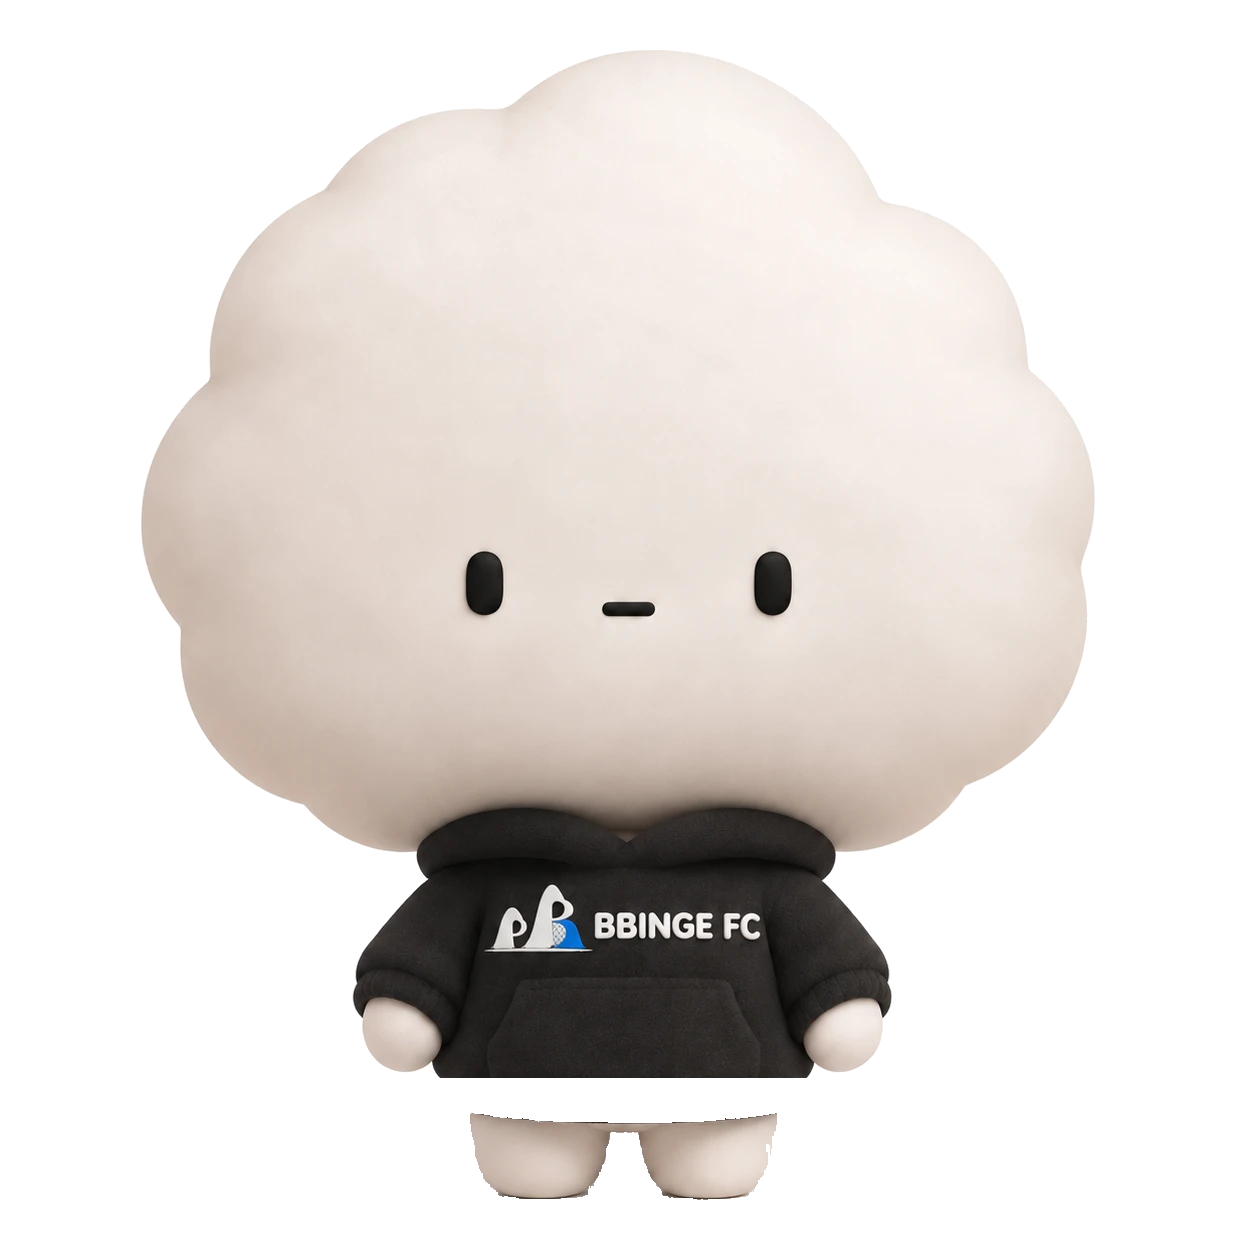
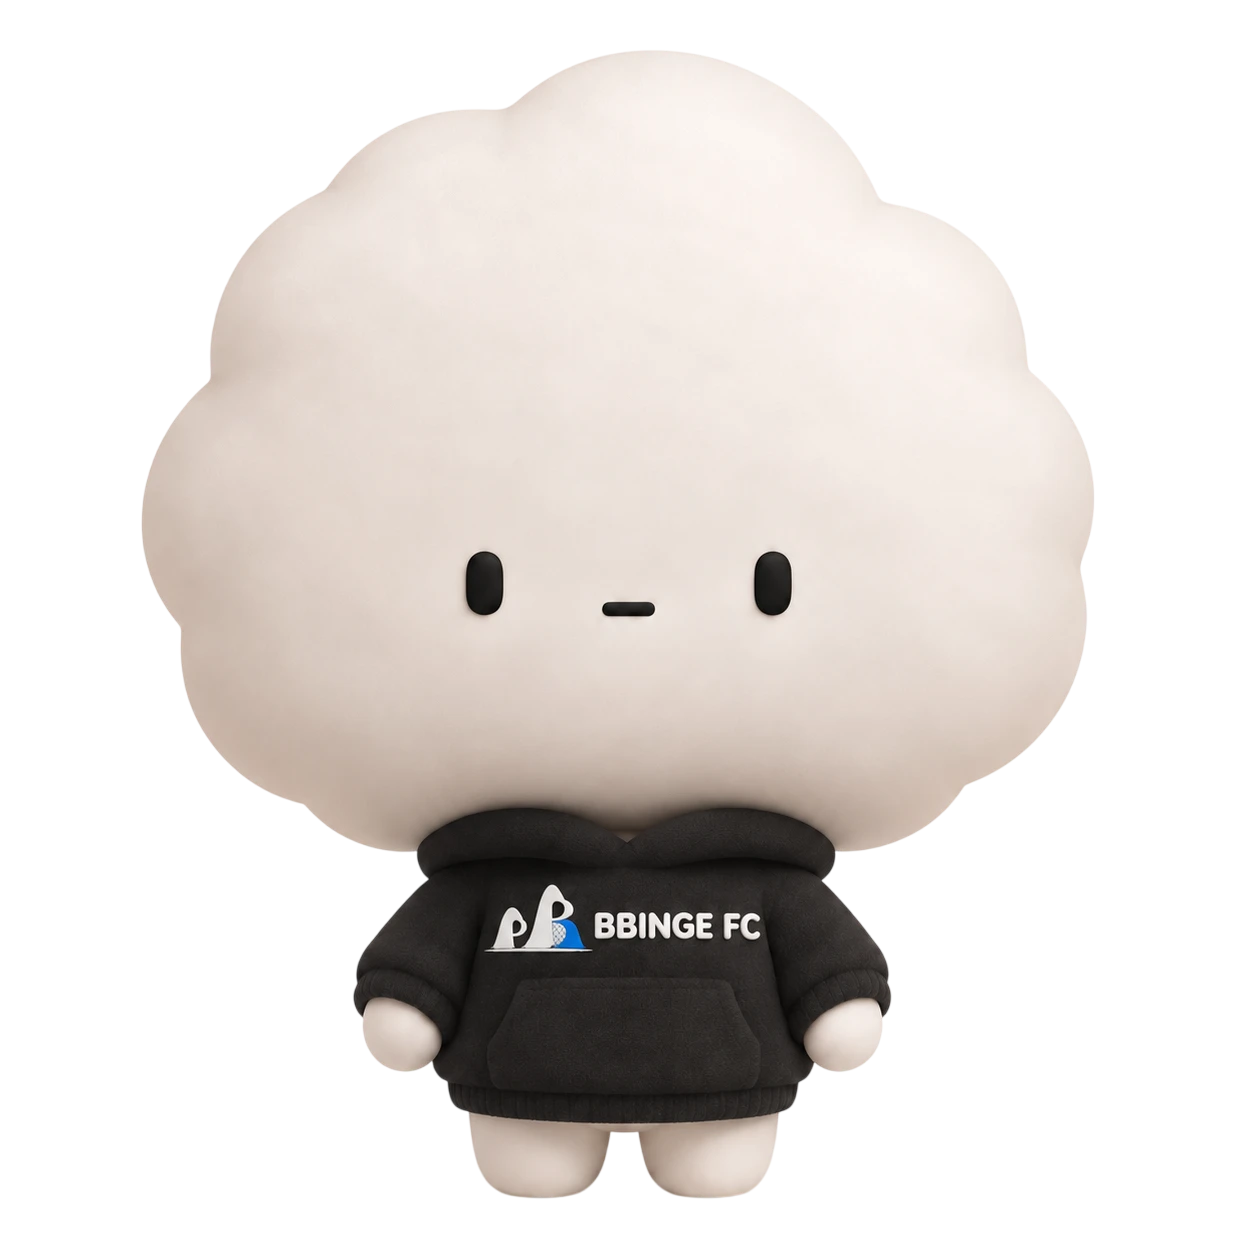
수정(캐릭터): 정면 두 컷을 운영자가 딴 누끼로 교체한다
- bbingji-front, bbingmaeng-front 를 운영자 제공 파일로 바꾼다
- 로비 아바타를 새 파일에서 다시 만든다
- 잘라내기 스크립트 기본 목록에서 두 파일을 빼 덮어쓰지 않게 한다

Changed region(s): [[0.3421, 0.8397, 0.6531, 0.9019]]

diff --git a/STATUS.md b/STATUS.md
@@ -4,9 +4,9 @@
 새 세션은 **이 파일을 제일 먼저 읽는다.** 여기 있는 숫자는 문서에 적어 둔 기억이 아니라 저장소를 직접 센 값이다.
 고정 규칙은 `AGENTS.md` §1의 핵심 문서를, 작업 경위는 `HANDOFF.md`를 본다.
 
-- 생성 시각: 2026. 9. 24. 0시 37분 45초 (KST)
-- 이 파일을 만든 시점의 커밋: `16940bd` · 2026-09-24 00:21 · 수정(축디): 입구 커버 스토리를 고정에서 회전으로 바꾼다
-- 작업 트리: 커밋 안 된 변경 6건
+- 생성 시각: 2026. 9. 24. 1시 9분 45초 (KST)
+- 이 파일을 만든 시점의 커밋: `1acc161` · 2026-09-24 00:40 · 수정: 홈 로비 버튼을 캐릭터 페이지로 바꾸고 삥지 누끼를 마무리한다
+- 작업 트리: 커밋 안 된 변경 4건
 - **배포 확인:** `git log --oneline -1`의 해시와 https://bbinge-fc.pages.dev/deploy.json 의 `commit`이 같으면 반영 완료다. 이 파일은 빌드 때 만들어지므로 그 뒤의 커밋 한 개만큼 뒤처져 있을 수 있다.
 
 ## 열린 항목
@@ -116,6 +116,7 @@
 ## 최근 커밋 12건
 
 ```
+2026-09-24  1acc161  수정: 홈 로비 버튼을 캐릭터 페이지로 바꾸고 삥지 누끼를 마무리한다
 2026-09-24  16940bd  수정(축디): 입구 커버 스토리를 고정에서 회전으로 바꾼다
 2026-09-23  64cbced  수정(축디): 카일리 편에 인물 카드를 넣는다
 2026-09-23  cd5ad55  발행(축디): 카일리 제너 월드컵 결승 올블랙 카프리 코디
@@ -127,5 +128,4 @@
 2026-09-23  34a19bd  수정(캐릭터): 낙엽을 화면 좌우로 흩고 배경을 흰색으로 되돌린다
 2026-09-23  586787c  추가(캐릭터): 단체 프로필 뒤에 계절 배경을 깐다
 2026-09-23  c262edd  문서: 캐릭터 페이지 구조 설명을 단체 프로필로 맞춘다
-2026-09-23  e3dc319  수정(캐릭터): 얼굴 절을 인스타 모양 단체 프로필로 바꾼다
 ```

diff --git a/BBINGE_CHARACTER_HANDOFF.md b/BBINGE_CHARACTER_HANDOFF.md
@@ -192,3 +192,7 @@
 2. 열마다 몸이 끝나는 줄(색기 20 넘는 가장 아래 화소)을 찾아 그 아래를 지운다. 발밑 그림자 덩어리가 사라진다.
 
 추가로 ③ 발밑 빈 곳에서 위로 번지며 지우기와 ④ 아래 12% 구간의 밝은 무채색 지우기로 **다리 사이에 낀 흰 쐐기**를 없앤다(삥지는 발끝이 막혀 있어 ③만으로는 닿지 않았다). ④는 아래 12%에만 쓴다. **그보다 위에서 몸 안쪽을 조건으로 지우는 규칙은 쓰지 않는다.** 밝은 무채색을 구간 단위로 지우려다 가슴 로고의 흰 글자, 손등과 다리 하이라이트가 파였다(2026-09-23, 세 번 실패). **CSS `clip-path`로 아래를 잘라내는 방법도 실패했다.** 그림자가 발바닥보다 위에서 옆으로 퍼져 있어 아래만 잘라서는 지워지지 않는다.
+
+### 정면 컷 누끼는 운영자가 딴 것을 쓴다 (2026-09-24)
+
+정면 두 컷의 바닥 그림자를 스크립트로 지우려다 네 번 실패했다. 흰 글자와 손등이 파이거나, 다리 사이 쐐기가 남거나, 다리가 물어뜯겼다. 결국 운영자가 직접 딴 누끼를 받아 `bbingji-front.png`·`bbingmaeng-front.png`로 넣었다. **이 두 파일은 `make-character-cutouts.mjs`의 기본 목록에서 뺐다.** 스크립트를 그냥 돌려도 덮어쓰지 않는다. 다른 자세 컷(공·땀·얼굴)만 스크립트가 만든다.
